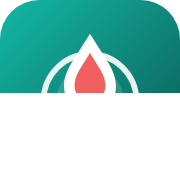
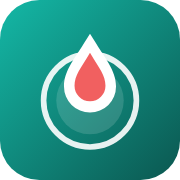
Répare les icônes tronquées
Les quatre PNG d'icônes étaient coupés dans leur partie basse. Le contenu
s'arrêtait à :

  icon-180.png           52 % de la hauteur
  icon-192.png           55 %
  icon-512.png           83 %
  icon-maskable-512.png  83 %

D'où le logo amputé dans l'en-tête de l'application — la goutte et le bas de
l'assiette manquaient, et les coins arrondis du bas avaient disparu.

Les SVG sources étaient intacts : seul l'export en PNG était fautif. Les quatre
fichiers sont régénérés depuis icons/icon.svg et icons/icon-maskable.svg, et
occupent maintenant 100 % de leur hauteur.

Ajoute scripts/render-icons.mjs pour que ce rendu soit reproductible plutôt que
refait à la main à la prochaine occasion.

Claude-Session: https://claude.ai/code/session_01ECi5z6eREFgHdGR8mjZbiM

diff --git a/README.md b/README.md
@@ -203,6 +203,7 @@ npm install                       # dépendances Capacitor + esbuild
 npx http-server -p 8080           # servir en local ; aucune étape de build pour le web
 bash scripts/build-plugins.sh     # après un changement de version de plugin Capacitor
 bash scripts/build-www.sh         # prépare www/ pour l'APK
+node scripts/render-icons.mjs     # régénère les PNG d'icônes depuis icons/*.svg
 ```
 
 JavaScript sans dépendance à l'exécution (modules IIFE exposant des globales), aucun
